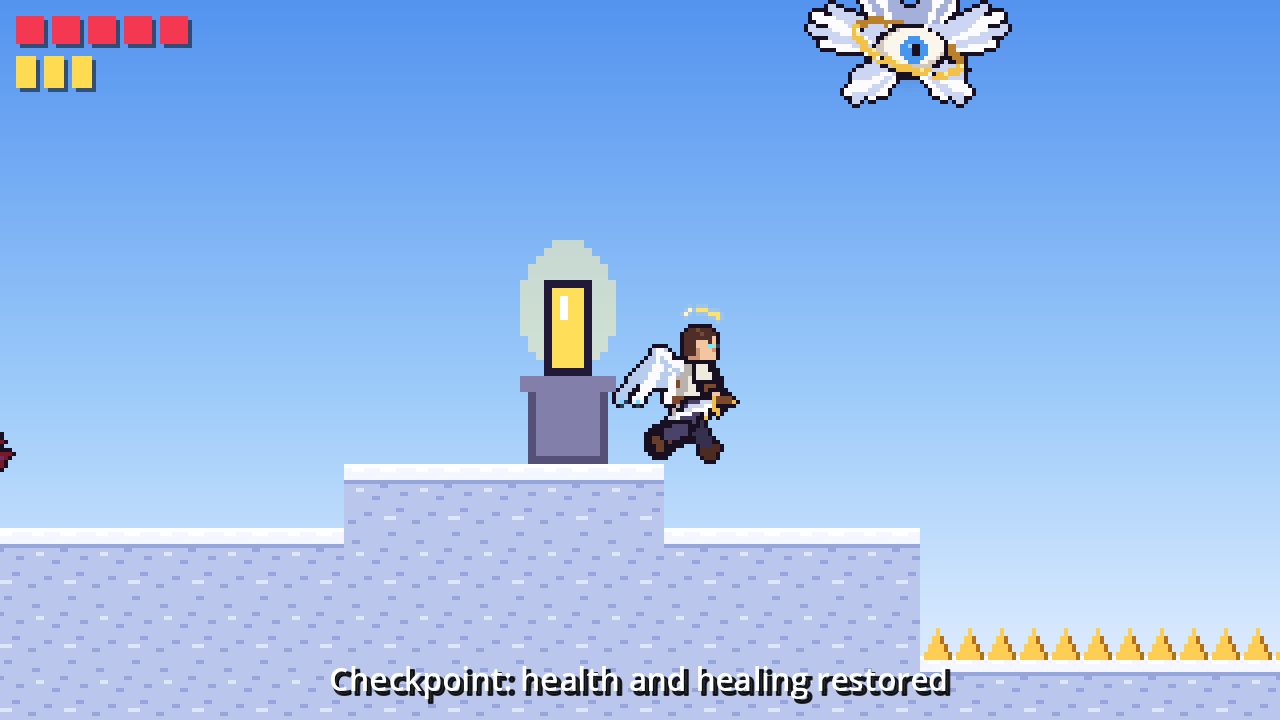
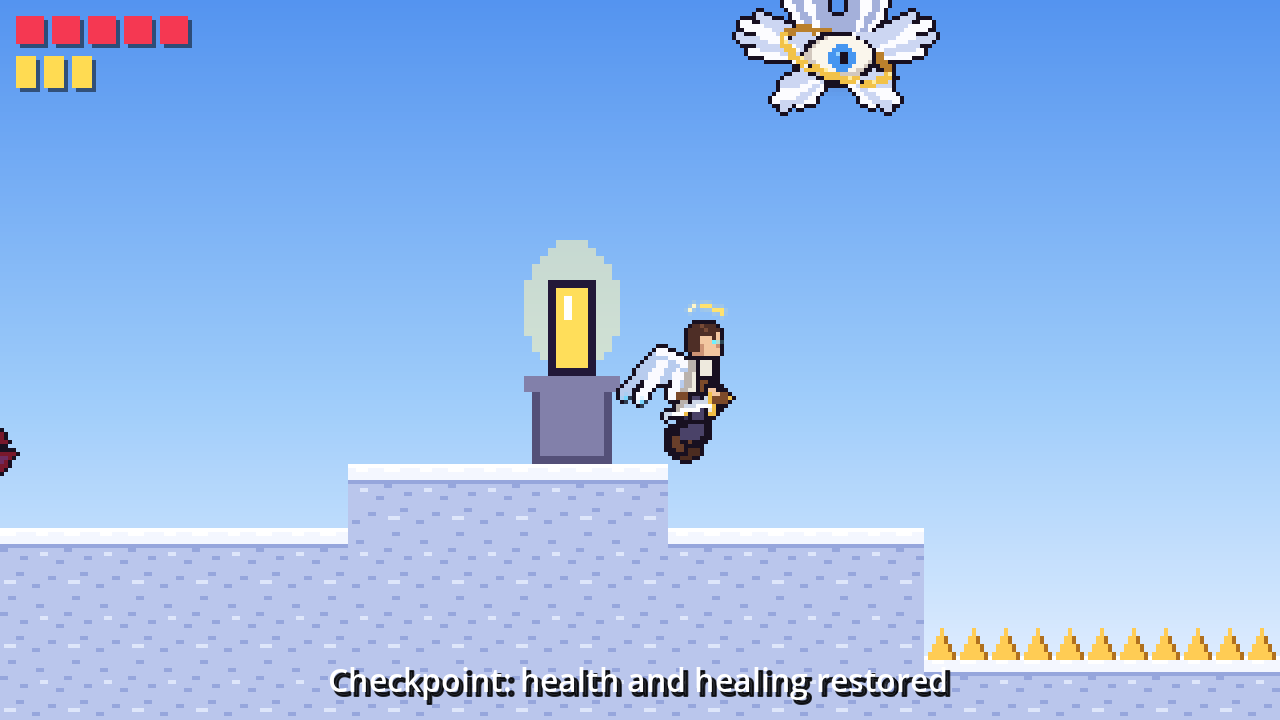
Move the project to Godot 4.7
Bumps the project feature tag to 4.7, re-imports the textures with 4.7.2,
keeps docs/ out of the importer with a .gdignore, and refreshes the
screenshots rendered on 4.7.2.

Claude-Session: https://claude.ai/code/session_015ZNgfisNmVQDT1BTu8dmFo

diff --git a/README.md b/README.md
@@ -9,7 +9,7 @@ hero, movement, melee combat, enemies, a checkpoint and limited healing.
 
 ## Running it
 
-1. Install [Godot 4.4](https://godotengine.org/download) (standard build, no
+1. Install [Godot 4.7](https://godotengine.org/download) (standard build, no
    .NET needed).
 2. Open `project.godot` in the editor and press **F5**, or run
    `godot --path .` from this folder.
